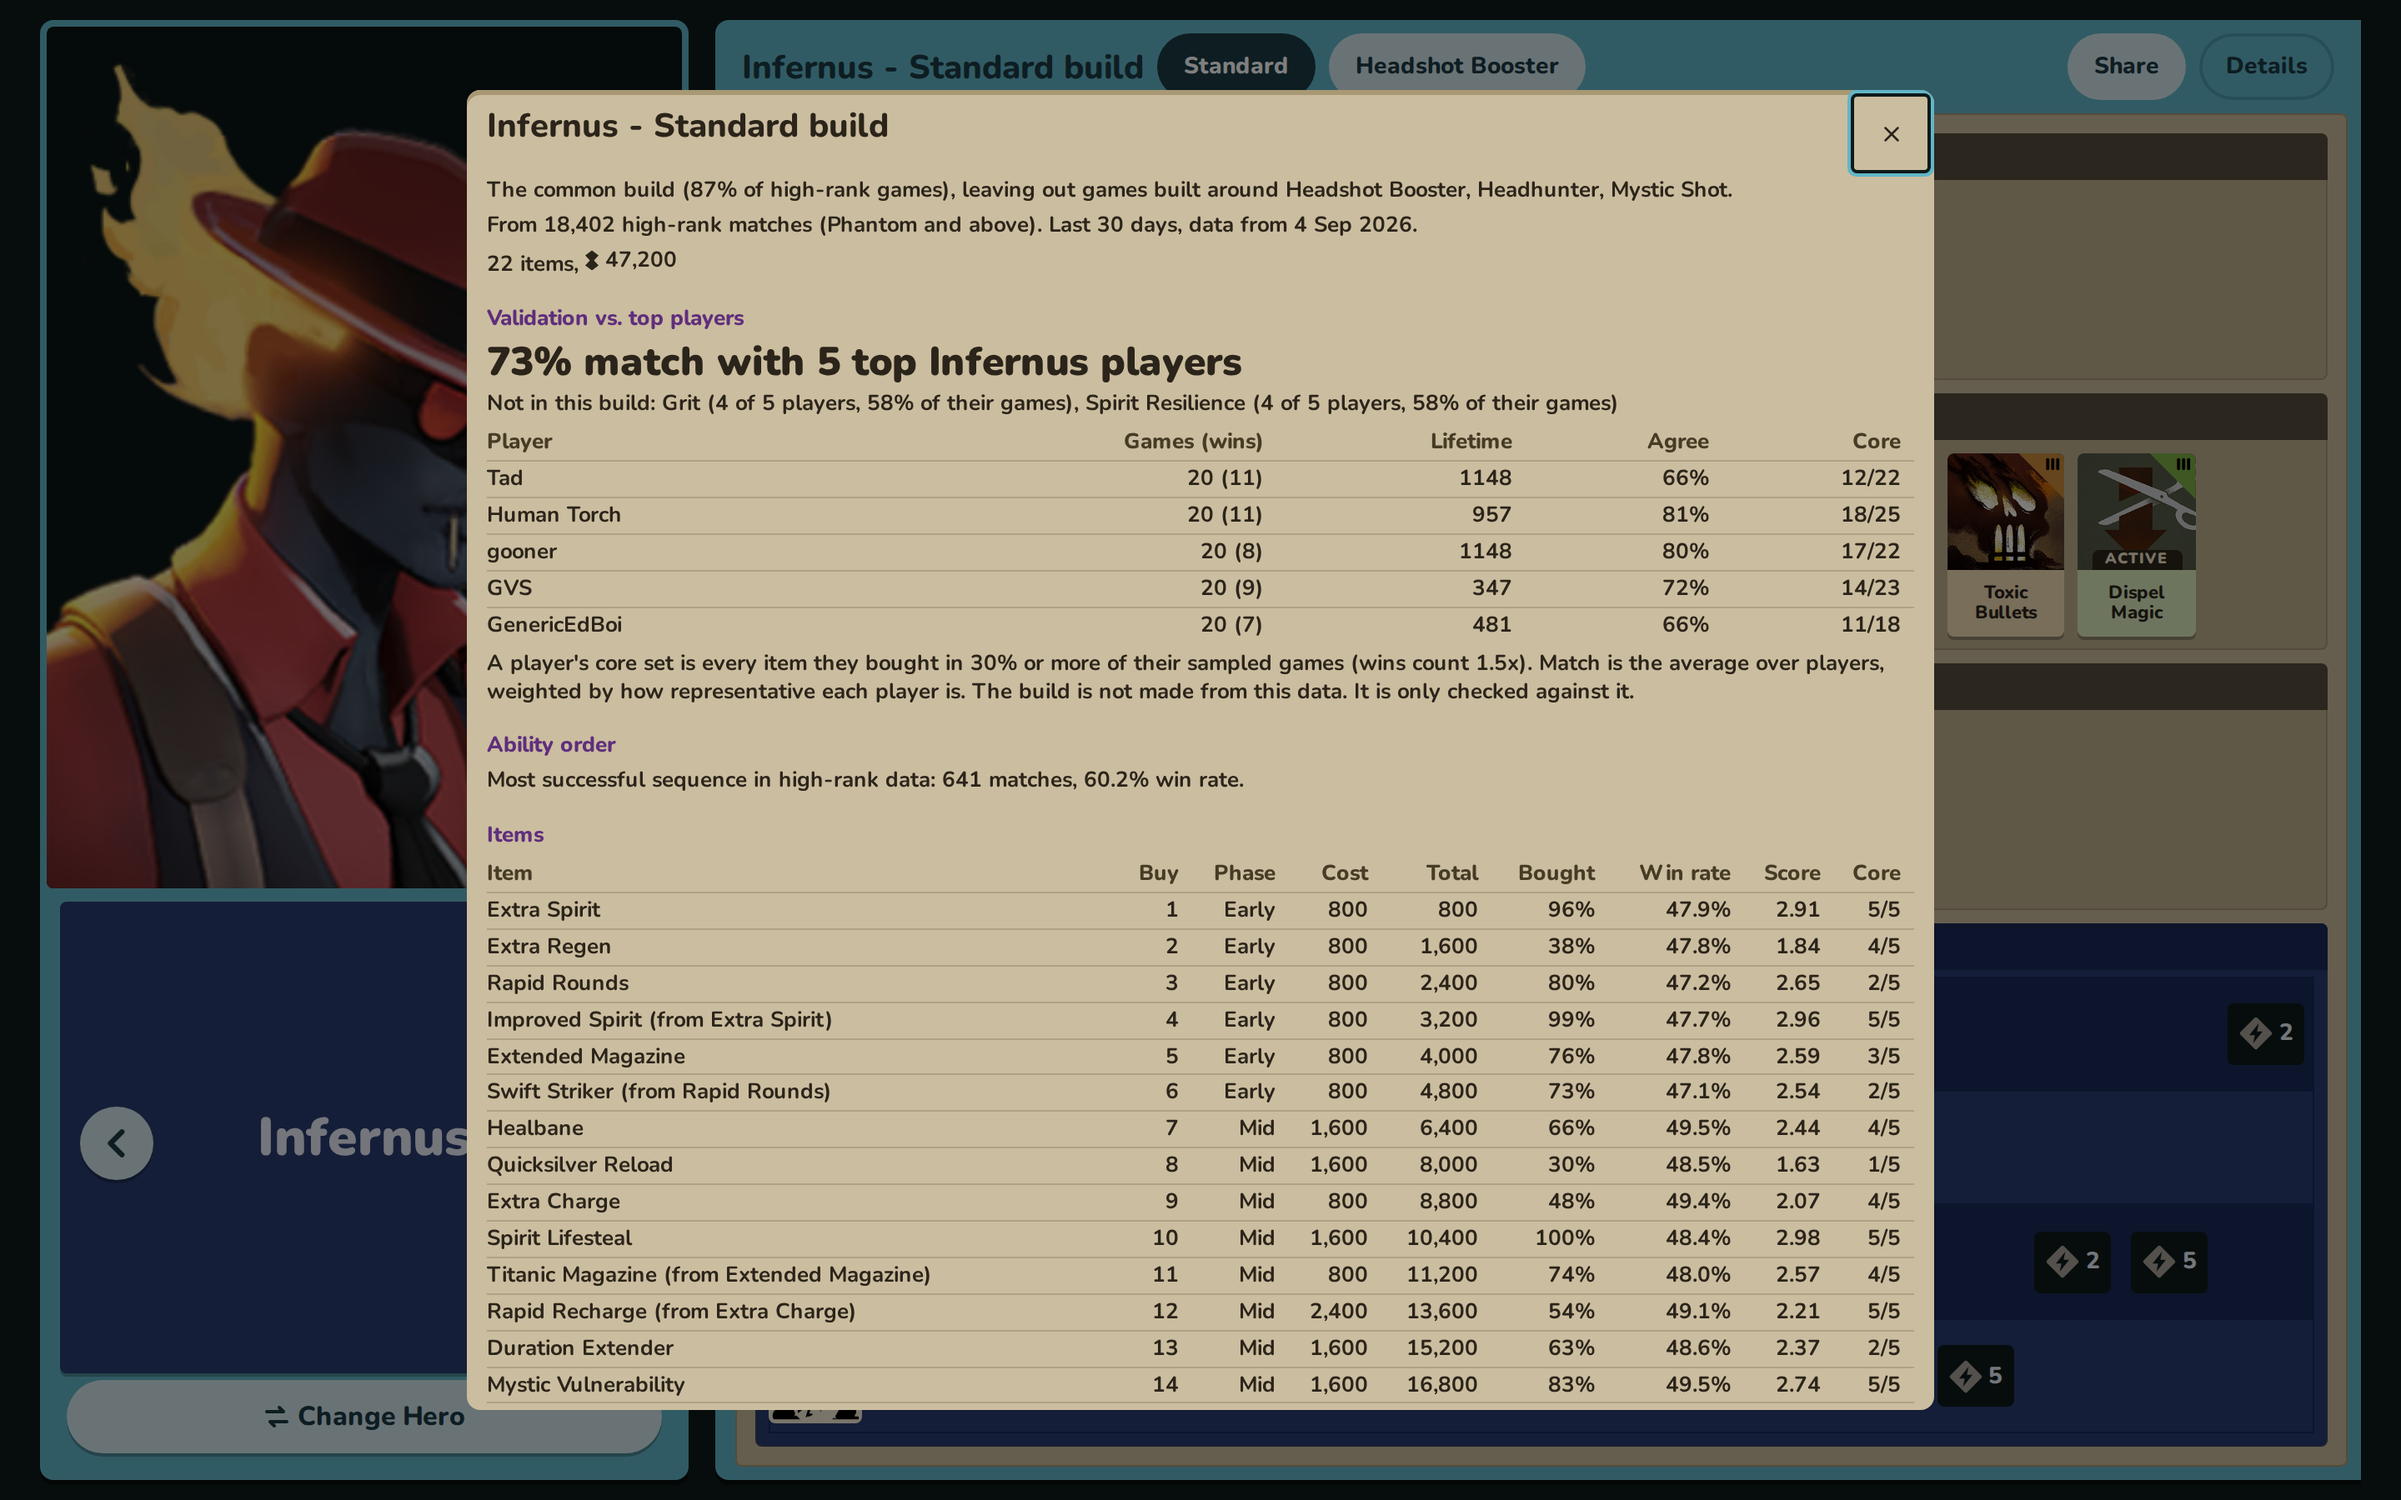
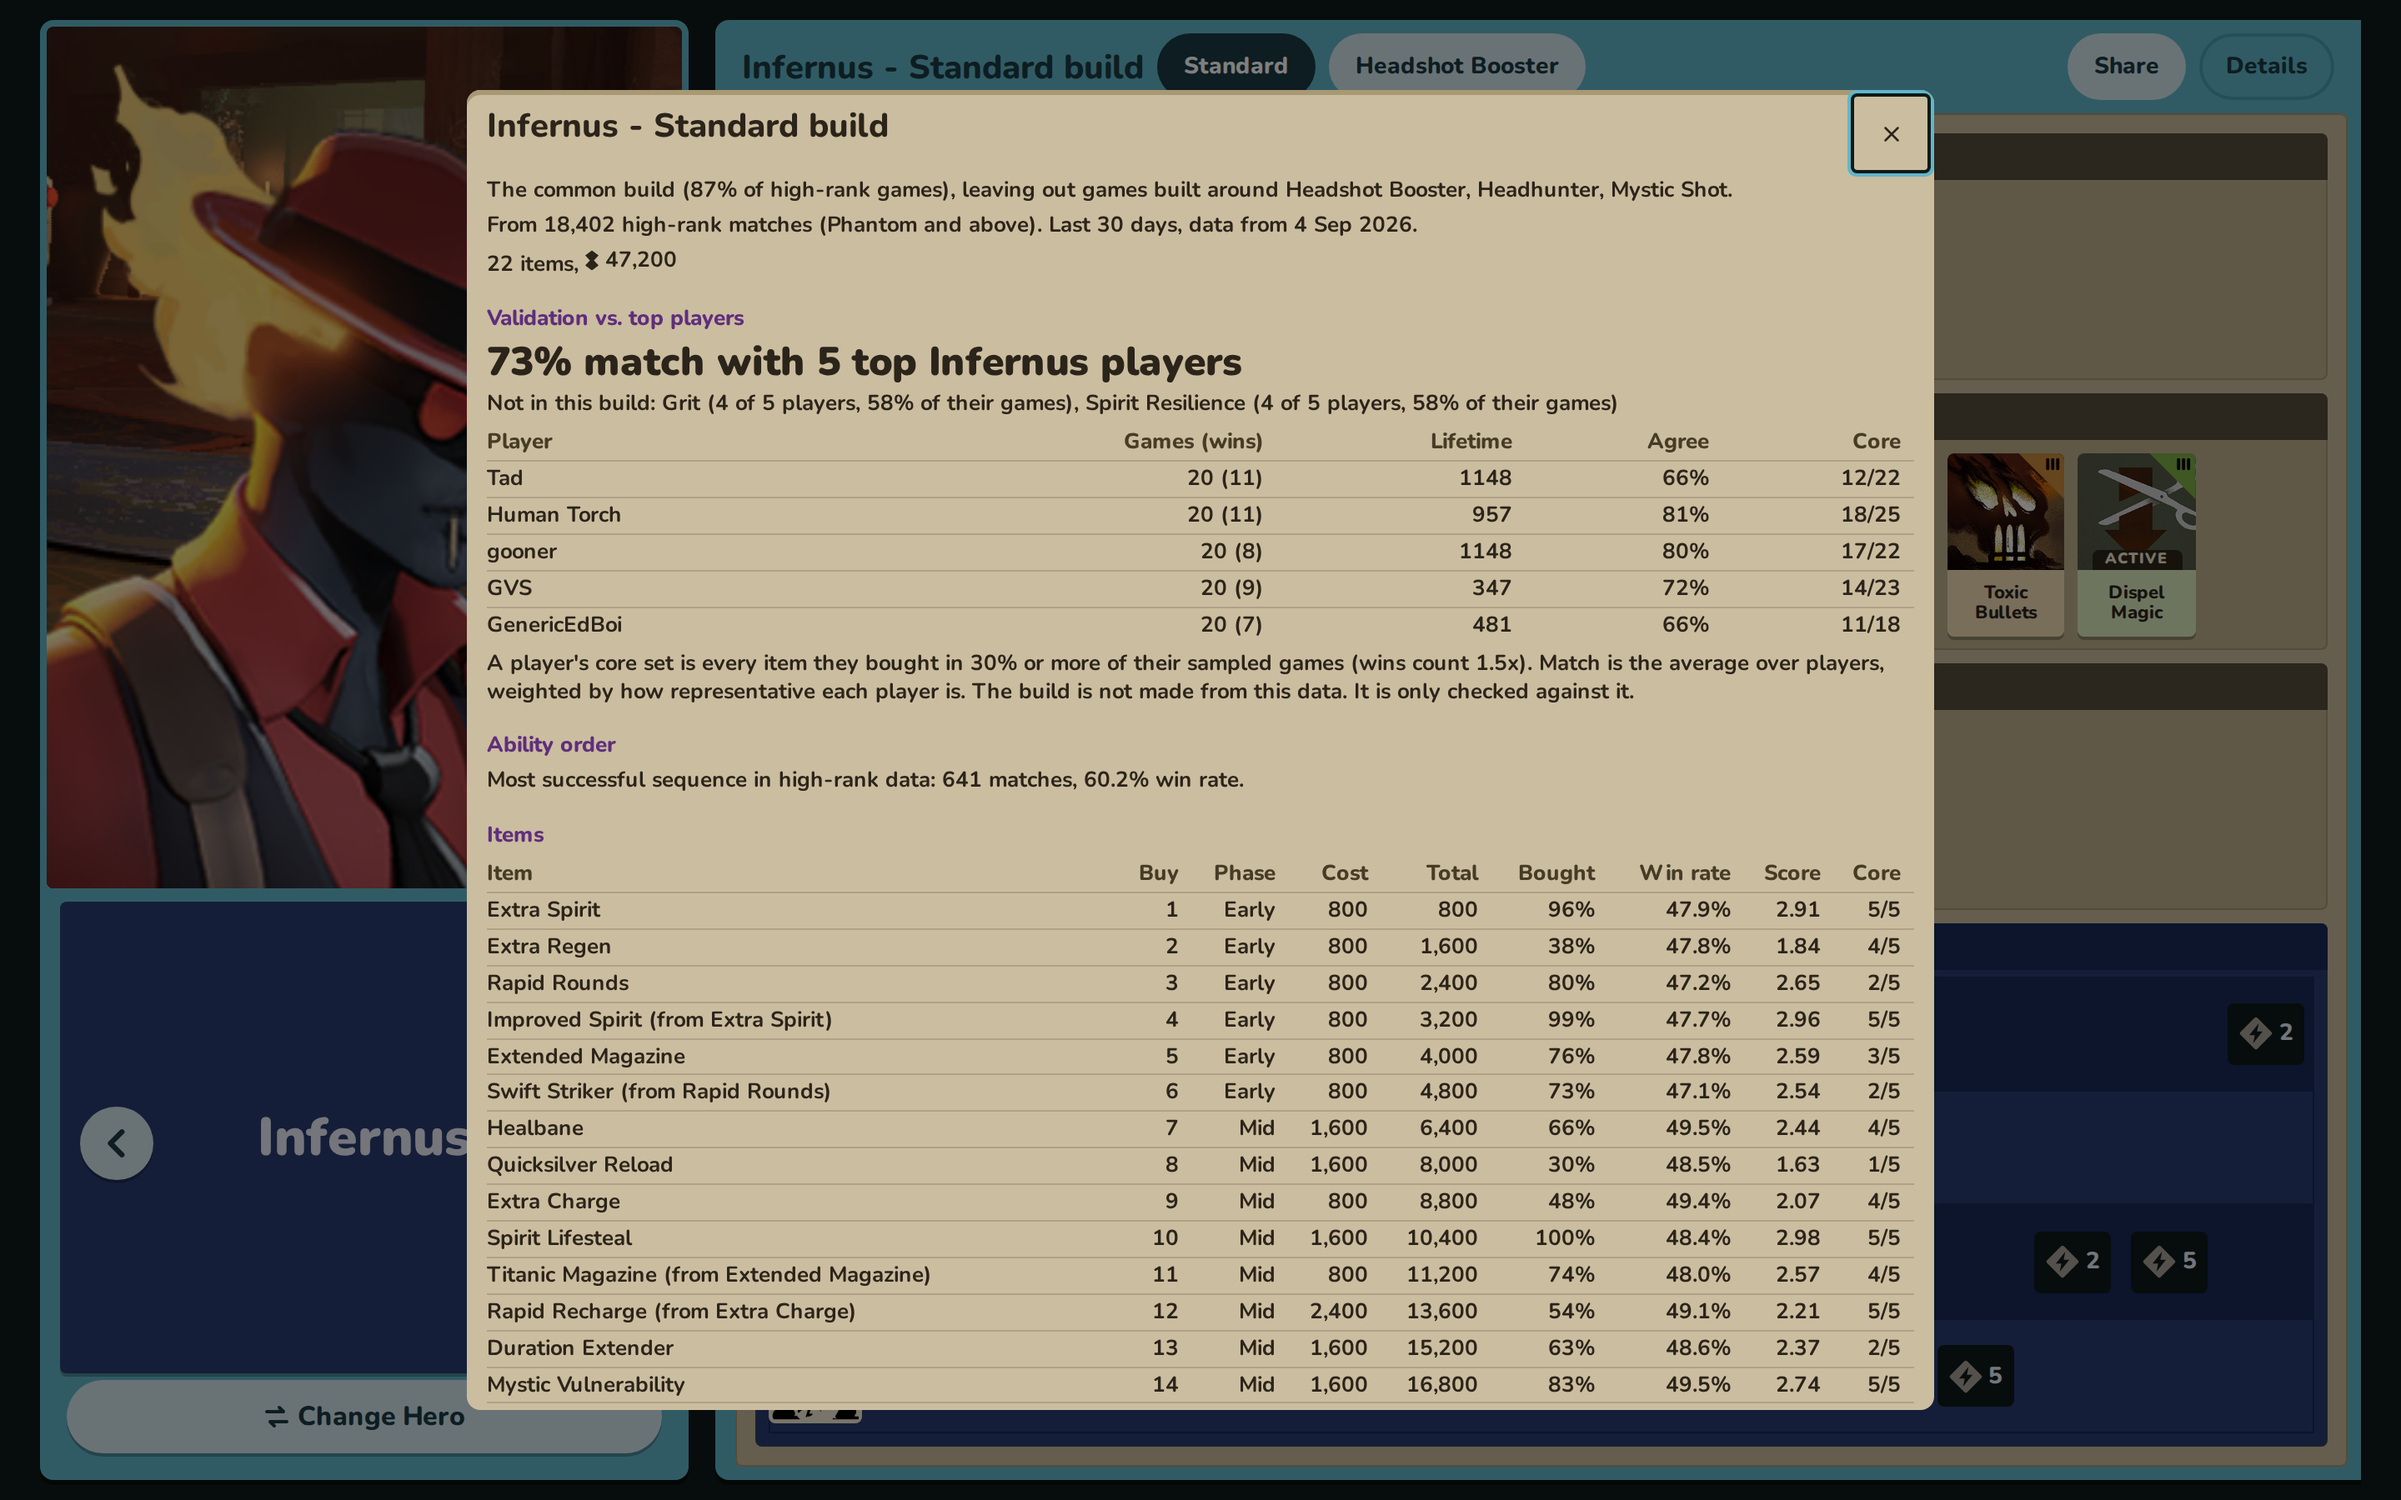
No dimming on hero switch (fixes blue flash); hero portrait backdrop with per-hero crop

Changed region(s): [[0.0, 0.1244, 0.125, 0.4044], [0.0625, 0.0, 0.2812, 0.1244]]

diff --git a/src/components/BuildView.tsx b/src/components/BuildView.tsx
@@ -1,4 +1,4 @@
-import { img } from '../data/load';
+import { heroBackdrop, img } from '../data/load';
 import { useRef, useState } from 'react';
 import type { Build, Hero, Phase } from '../types';
 import type { PanelValidation } from '../validation/heldout';
@@ -66,7 +66,7 @@ export function BuildView({
   onOpenHeroes: () => void;
   onStepHero: (d: -1 | 1) => void;
   panel: PanelValidation | null;
-  hero: Pick<Hero, 'name' | 'images'>;
+  hero: Pick<Hero, 'id' | 'name' | 'images'>;
   windowDays?: number;
   fetchedDate: string | null;
   stale: boolean;
@@ -122,7 +122,7 @@ export function BuildView({
         <div className="hero-mini">
           <HeroArrow dir={-1} onStep={onStepHero} />
           <button className="hero-avatar hero-btn" onClick={onOpenHeroes} aria-label={`${hero.name}, change hero`}>
-            <img src={img(hero.images.small)} alt="" width={44} height={44} />
+            <img src={img(hero.images.small)} alt="" width={44} height={44} style={heroBackdrop(hero.id)} />
             <SwapCue />
           </button>
           <HeroArrow dir={1} onStep={onStepHero} />

diff --git a/src/App.tsx b/src/App.tsx
@@ -1,6 +1,6 @@
 import { useEffect, useMemo, useReducer, useState } from 'react';
 import type { Ability, Build, Hero, HeroAnalytics, Item } from './types';
-import { img, loadAnalytics, loadCore, type Manifest } from './data/load';
+import { heroBackdrop, img, loadAnalytics, loadCore, type Manifest } from './data/load';
 import { generateBuilds } from './generator';
 import {
   computeCoreSet,
@@ -222,7 +222,7 @@ export default function App() {
         <aside className="hero-side">
           <div className="hero-card">
             <button className="hero-face hero-btn" onClick={() => setHeroesOpen(true)} aria-label={`${hero.name}, change hero`}>
-              <img src={img(hero.images.card ?? hero.images.small)} alt="" width={280} height={380} />
+              <img src={img(hero.images.card ?? hero.images.small)} alt="" width={280} height={380} style={heroBackdrop(hero.id)} />
               <span className="hero-name">{hero.name}</span>
               <SwapCue />
             </button>

diff --git a/src/data/load.ts b/src/data/load.ts
@@ -35,3 +35,10 @@ export const loadAnalytics = (heroId: number) => j<HeroAnalytics>(`analytics/${h
 
 /** Image fields in the snapshot are app-relative (img/...) after fetch-data; absolute URLs pass through. */
 export const img = (p?: string) => (!p ? undefined : /^https?:/.test(p) ? p : base + p);
+
+/** Portrait backdrop: same picture for every hero, a different, fixed crop per hero id. */
+export const heroBackdrop = (heroId: number) => ({
+  backgroundImage: `url(${img('hero-background.png')})`,
+  backgroundSize: 'auto 170%',
+  backgroundPosition: `${10 + ((heroId * 37) % 81)}% ${15 + ((heroId * 53) % 71)}%`,
+});

diff --git a/src/index.css b/src/index.css
@@ -796,7 +796,7 @@ button.tile:hover {
   transition: opacity 150ms ease;
 }
 .board-wrap.stale {
-  opacity: 0.45;
+  /* no dimming: the old build stays fully drawn until the next one lands, so nothing flashes */
   pointer-events: none;
 }
 .sk-head {
